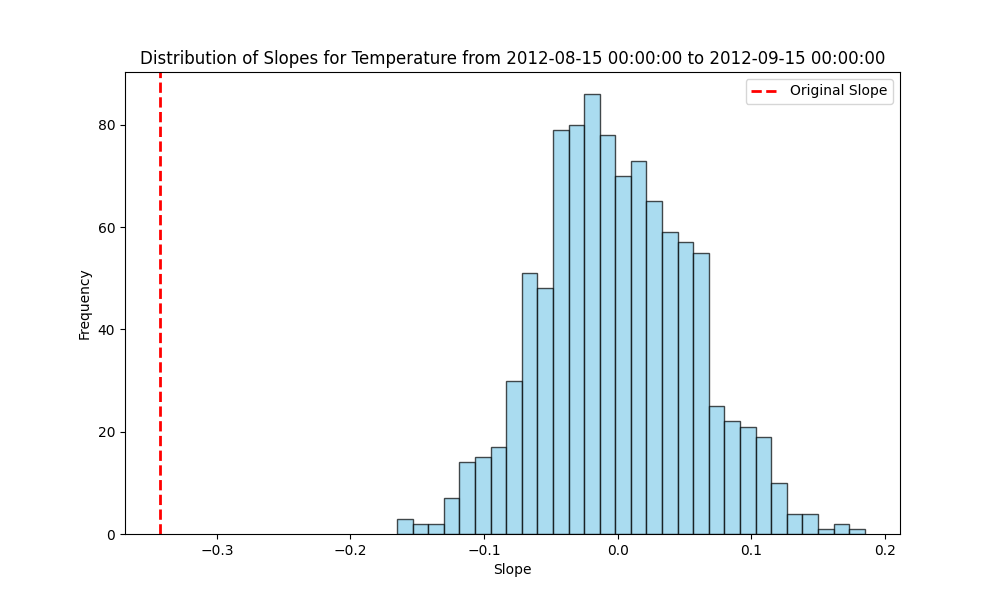
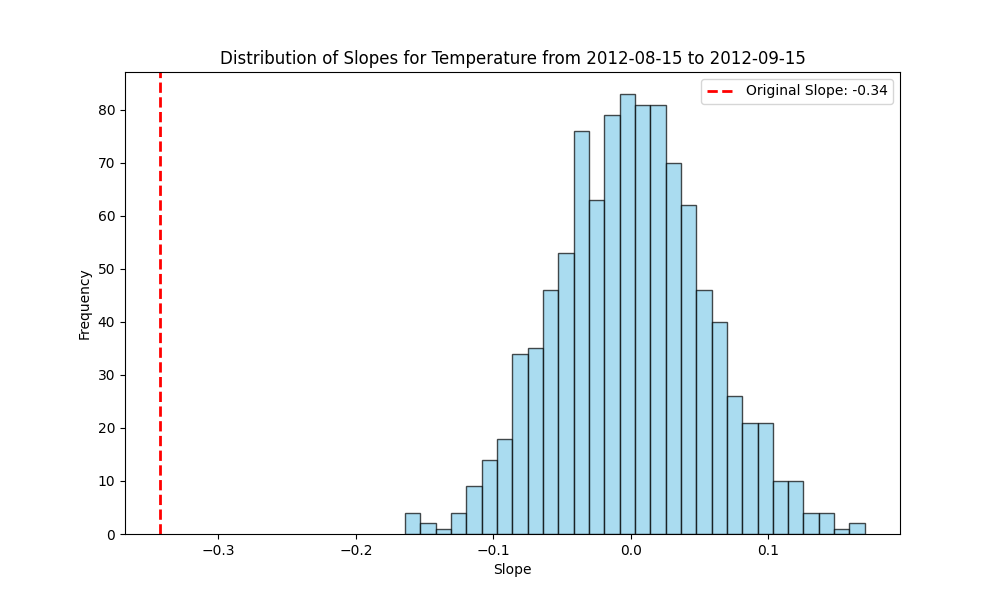
Time series finalized

diff --git a/timeseries_test.py b/timeseries_test.py
@@ -28,26 +28,26 @@ def plot_original():
     df.set_index('date', inplace=True)
 
     # create a figure with subplots
-    fig, axes = plt.subplots(nrows=3, ncols=1, figsize=(10, 18))
-
-    # plot the 'Temperature' column over time
-    df['Temperature'].plot(ax=axes[0], title='Temperature over time')
-    axes[0].set_xlabel('Date')
-    axes[0].set_ylabel('Temperature (degrees Celsius)')
-
-    # plot the 'Rain' column over time
-    df['Rain'].plot(ax=axes[1], title='Rain over time')
-    axes[1].set_xlabel('Date')
-    axes[1].set_ylabel('Rain')
-
-    # plot the 'RH' column over time
-    df['RH'].plot(ax=axes[2], title='Relative Humidity over time')
-    axes[2].set_xlabel('Date')
-    axes[2].set_ylabel('Relative Humidity')
-
-    # show the plots
-    plt.tight_layout()
+    plt.figure(figsize=(10, 6))
+    df['Temperature'].plot(title='Temperature over time')
+    plt.xlabel('Date')
+    plt.ylabel('Temperature (degrees Celsius)')
     plt.show()
+
+    # Plotting Rain
+    plt.figure(figsize=(10, 6))
+    df['Rain'].plot(title='Rain over time')
+    plt.xlabel('Date')
+    plt.ylabel('Rain')
+    plt.show()
+
+    # Plotting Relative Humidity
+    plt.figure(figsize=(10, 6))
+    df['RH'].plot(title='Relative Humidity over time')
+    plt.xlabel('Date')
+    plt.ylabel('Relative Humidity')
+    plt.show()
+
 
 def linear_regression_plot(start_date, end_date, feature):
     """
@@ -161,10 +161,10 @@ def permuted_linear_regression_slopes(start_date, end_date, feature, num_permuta
     # plot histogram
     plt.figure(figsize=(10, 6))
     plt.hist(permutation_slopes, bins=30, color='skyblue', edgecolor='black', alpha=0.7)
-    plt.axvline(original_slope, color='red', linestyle='dashed', linewidth=2, label='Original Slope')
+    plt.axvline(original_slope, color='red', linestyle='dashed', linewidth=2, label=f'Original Slope: {round(original_slope,2)}')
     plt.xlabel('Slope')
     plt.ylabel('Frequency')
-    plt.title(f'Distribution of Slopes for {feature} from {start_date} to {end_date}')
+    plt.title(f'Distribution of Slopes for {feature} from 2012-08-15 to 2012-09-15')
     plt.legend()
     plt.savefig(os.path.join('figures', f'{feature}_slopes_distribution.png'))
     plt.show()

diff --git a/probit_model.py b/probit_model.py
@@ -1,0 +1,45 @@
+
+import pandas as pd
+from statsmodels.discrete.discrete_model import Probit
+import statsmodels.api as sm
+import numpy as np
+import matplotlib.pyplot as plt
+import seaborn as sns
+
+def run_analysis(file_path):
+
+    # load the data
+    data = pd.read_csv(file_path)
+
+    # preparing the data for the Probit model
+    X = data['Temperature']  # independent variable
+    y = data['Classes']      # dependent variable (binary: 0 = no fire, 1 = fire)
+
+    # add a constant to the independent variable
+    X_const = sm.add_constant(X)
+
+    # fit the Probit model
+    probit_model = Probit(y, X_const).fit()
+
+    print(probit_model.summary())
+
+    # setting up the range of temperature values for plotting
+    temperature_range = np.linspace(data['Temperature'].min(), data['Temperature'].max(), 500)
+    X_range = sm.add_constant(temperature_range)
+
+    # getting the predicted probabilities from the Probit model
+    predicted_probabilities = probit_model.predict(X_range)
+
+    # plotting
+    plt.figure(figsize=(10, 6))
+    sns.scatterplot(data=data, x='Temperature', y='Classes', alpha=0.6, label='Observed Data')
+    plt.plot(temperature_range, predicted_probabilities, color='red', label='Predicted Probability')
+    plt.title('Probit Model: Probability of Forest Fire vs Temperature')
+    plt.xlabel('Temperature')
+    plt.ylabel('Probability of Forest Fire')
+    plt.legend()
+    plt.grid(True)
+    plt.show()
+
+file_path = './data_0_1/Both.csv'  # Replace with your actual file path
+run_analysis(file_path)
